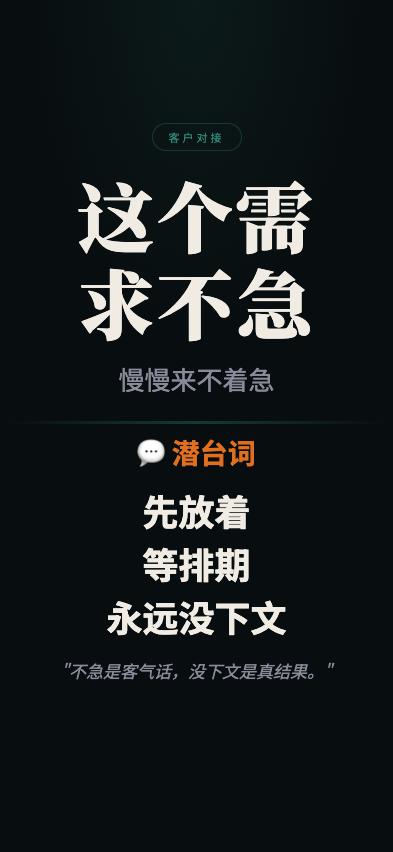
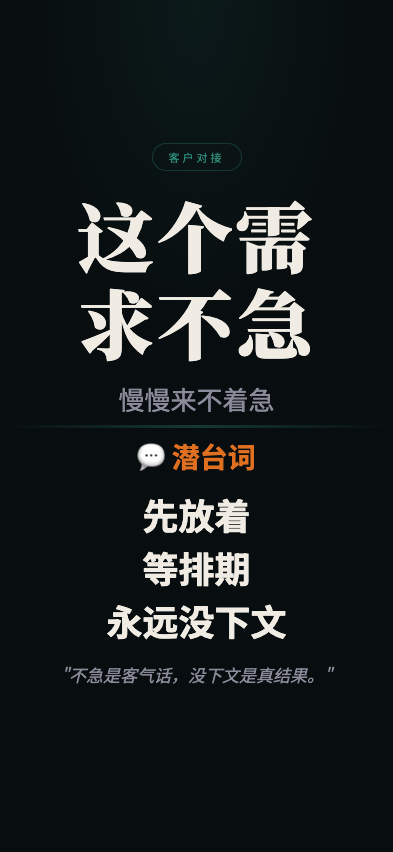
feat: 职场生存法则 screenshot - xuqiubuji

Changed region(s): [[0.1832, 0.1526, 0.7939, 0.5493], [0.1527, 0.5798, 0.7939, 0.8239], [0.8244, 0.7629, 0.855, 0.7934]]

diff --git a/wuliao-tools/tools/biz-speak/scenes/xuqiubuji.html b/wuliao-tools/tools/biz-speak/scenes/xuqiubuji.html
@@ -29,14 +29,14 @@
     pointer-events:none; z-index:0;
   }
 
-  .top { flex:1; display:flex; flex-direction:column; align-items:center; justify-content:flex-end; padding:16px 28px 24px; position:relative; z-index:1; }
+  .top { flex:1; display:flex; flex-direction:column; align-items:center; justify-content:flex-end; padding:4px 28px 8px; position:relative; z-index:1; }
   .tag { font-size:11px; letter-spacing:3px; color:var(--gold); border:1px solid rgba(46,139,122,0.3); padding:5px 16px; border-radius:50px; margin-bottom:20px; }
   .main-title { font-family:'Noto Serif SC'; font-size:76px; font-weight:900; text-align:center; line-height:1.15; letter-spacing:3px; max-width:92%; overflow-wrap:break-word; }
   .sub-title { font-size:26px; color:var(--text-dim); text-align:center; margin-top:14px; }
 
   .divider { width:100%; height:3px; background:linear-gradient(90deg,transparent,var(--gold),transparent); opacity:0.35; flex-shrink:0; position:relative; z-index:1; }
 
-  .bottom { flex:1; display:flex; flex-direction:column; align-items:center; justify-content:flex-start; padding:8px 28px 40px; position:relative; z-index:1; }
+  .bottom { flex:1; display:flex; flex-direction:column; align-items:center; justify-content:flex-start; padding:8px 28px 4px; position:relative; z-index:1; }
   .truth-label { font-size:28px; font-weight:700; color:var(--red); display:flex; align-items:center; gap:10px; margin-bottom:16px; }
   .truth-lines { display:flex; flex-direction:column; align-items:center; gap:10px; }
   .truth-line { font-size:36px; font-weight:700; color:var(--text); text-align:center; line-height:1.2; }
